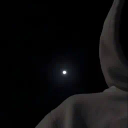
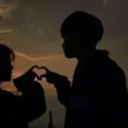
Improve help command formatting by simplifying command descriptions and removing unnecessary styling.
Replit-Commit-Author: Agent
Replit-Commit-Session-Id: fe5a88a3-4f34-4aff-b16d-4514c08d444e
Replit-Commit-Screenshot-Url: https://storage.googleapis.com/screenshot-production-us-central1/3e439d2b-09e7-4adc-aa00-babee1fc8ab7/2a95a8ae-d189-44dc-9d86-2e8ac08fc3a9.jpg

diff --git a/commands/help.js b/commands/help.js
@@ -15,46 +15,44 @@ module.exports = {
         }
 
         const embed = new EmbedBuilder()
-            .setTitle('✨ SWOOSH Premium Command Suite ✨')
-            .setDescription(`Welcome to the **SWOOSH Bot** premium command interface.\n\n**Prefix:** \`${config.prefix}\`\n\n*This advanced command system provides enterprise-grade server management features exclusively for staff members with appropriate permissions.*`)
+            .setTitle('SWOOSH Bot Commands')
+            .setDescription(`**Command Prefix:** \`${config.prefix}\`\n*Staff permissions required for most commands*`)
             .addFields(
                 { 
-                    name: '<:SWOOSHT:1361283625320190002> • Ticket Management',
-                    value: '```yaml\n.setup-tickets : Create premium ticket panel\n.adduser @user : Add user to active ticket\n/transcript : Generate professional ticket transcript\n```' 
+                    name: '<:SWOOSHT:1361283625320190002> Ticket Management',
+                    value: '`.setup-tickets` - Create ticket panel\n`.adduser @user` - Add user to ticket\n`/transcript` - Generate ticket transcript' 
                 },
                 { 
-                    name: '<:SWOOSHT:1361283625320190002> • Bounty System', 
-                    value: '```yaml\n/setbounty : Create a new community bounty\n/image : Set custom webhook avatar\n/template : Send template message for bounties\n```' 
+                    name: '<:SWOOSHT:1361283625320190002> Bounty System', 
+                    value: '`/setbounty` - Create a new bounty\n`/image` - Set webhook avatar\n`/template` - Send template message' 
                 },
                 { 
-                    name: '<:Role_:1358183713522847855> • Role Management', 
-                    value: '```yaml\n/role @user @role : Assign or remove role\n.autorole add @role : Configure auto-role system\n.autorole remove @role : Remove from auto-role\n.autorole list : Display all configured auto-roles\n.logrole set [action] @role : Assign roles on actions\n```' 
+                    name: '<:Role_:1358183713522847855> Role Management', 
+                    value: '`/role @user @role` - Assign/remove role\n`.autorole add @role` - Add autorole\n`.autorole remove @role` - Remove autorole\n`.autorole list` - List autoroles\n`.logrole set [action] @role` - Assign action roles' 
                 },
                 { 
-                    name: '🛡 • Advanced Moderation', 
-                    value: '```yaml\n.ban @user [reason] : Ban member with tracking\n.unban ID [reason] : Unban member with audit\n.banlist [page] : View paginated ban list\n.banlist-enhanced [filters] : Pro ban filtering\n.kick @user [reason] : Remove member\n.mute @user [duration] [reason] : Temporarily mute\n.purge <amount> [reason] : Bulk message deletion\n```' 
+                    name: '🛡 Moderation', 
+                    value: '`.ban @user [reason]` - Ban member\n`.unban ID [reason]` - Unban member\n`.banlist [page]` - View ban list\n`.banlist-enhanced [filters]` - Advanced ban list\n`.kick @user [reason]` - Kick member\n`.mute @user [time] [reason]` - Mute member\n`.purge <amount>` - Delete messages' 
                 },
                 {
-                    name: '🚫 • Security & Blacklisting',
-                    value: '```yaml\n.blacklists : Review all blacklisted users\n.add blacklist : Add user to global blacklist\n.setlogs [channel] : Configure logging system\n.setlogroles : Manage log channel permissions\n```'
+                    name: '🚫 Security & Blacklisting',
+                    value: '`.blacklists` - Show blacklisted users\n`.add blacklist` - Add to blacklist\n`.setlogs [channel]` - Set log channels\n`.setlogroles` - Manage log permissions'
                 },
                 {
-                    name: '👤 • Member Intelligence',
-                    value: '```yaml\n/whos @user : Deep user profile analysis\n.afk [reason] : Set away status with notice\n/setlogroles : Configure log access control\n```'
+                    name: '👤 User Information',
+                    value: '`/whos @user` - Shows user details\n`.afk [reason]` - Set yourself as AFK\n`/logrole` - Configure action roles'
                 },
                 {
-                    name: '🔧 • Server Utilities',
-                    value: '```yaml\n/emoji : Convert and upload custom emoji\n.create role : Create custom role with options\n/setnews : Configure news channel system\n/website : Access admin dashboard\n```'
+                    name: '🔧 Utilities',
+                    value: '`/emoji` - Upload custom emoji\n`.create role` - Create server role\n`/setnews` - Configure news channels\n`/website` - Open dashboard'
                 }
             )
-            .setColor('#5865F2') // Discord blurple for premium look
+            .setColor('#5865F2')
             .setThumbnail('https://i.ibb.co/4g9LqWyK/swoosh.jpg')
-            .setImage('https://i.imgur.com/SL5VfDY.png') // Placeholder for premium banner
             .setFooter({ 
-                text: 'SWOOSH Enterprise • Premium Command Suite', 
+                text: 'SWOOSH Bot • Command Guide', 
                 iconURL: 'https://i.ibb.co/4g9LqWyK/swoosh.jpg' 
-            })
-            .setTimestamp();
+            });
 
         // Create buttons for additional resources
         const row = new ActionRowBuilder()
